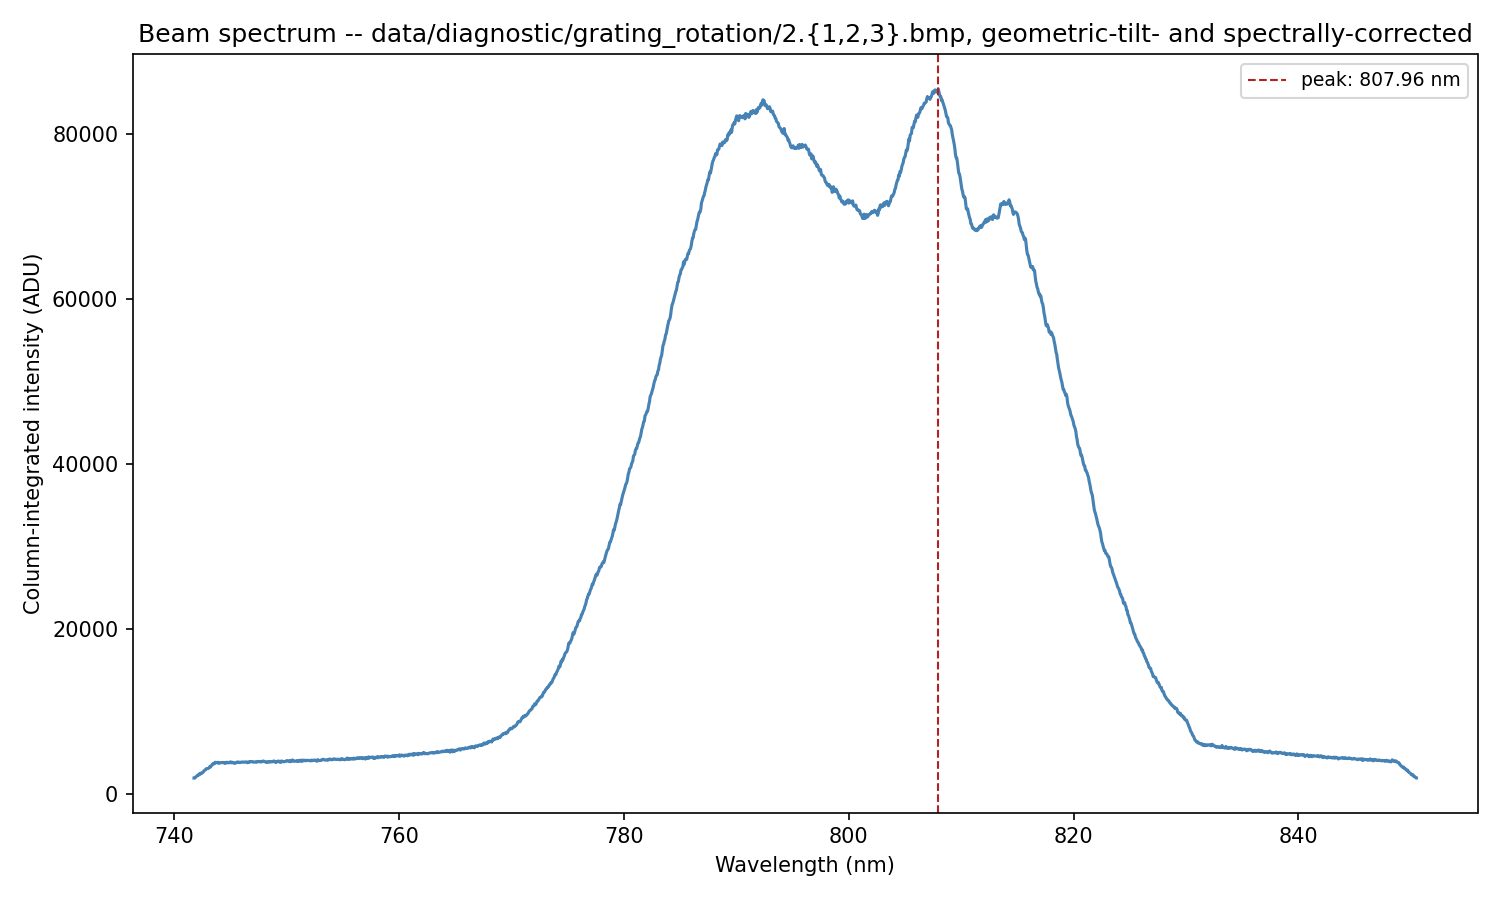
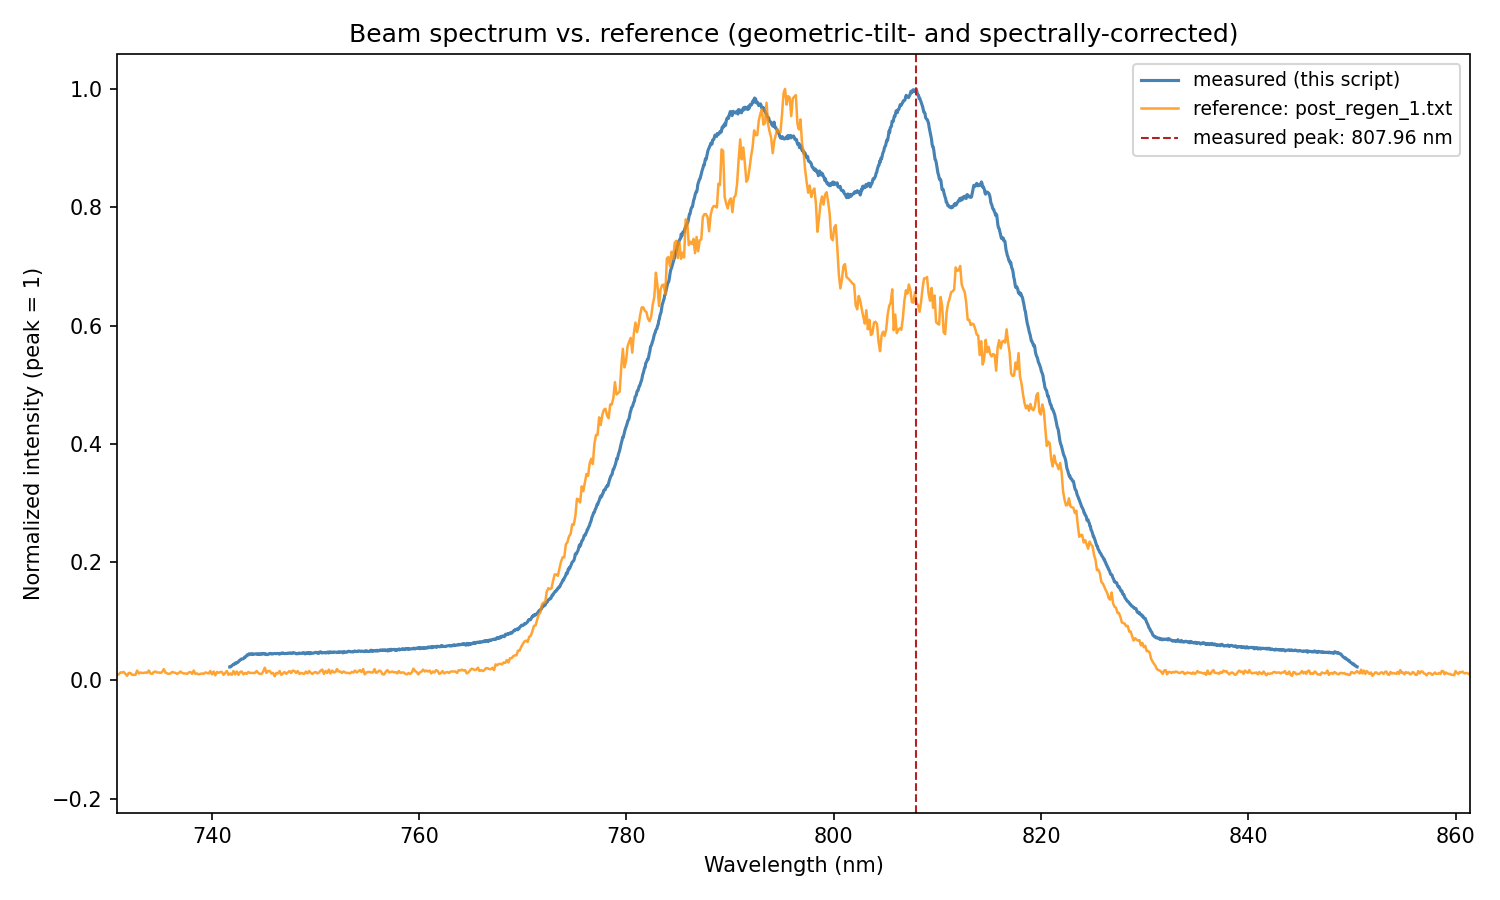
Overlay reference beam spectrum on plot_beam_spectrum.py's plot

diff --git a/scripts/plot_beam_spectrum.py b/scripts/plot_beam_spectrum.py
@@ -44,9 +44,21 @@ exposure_us/gain_db are NOT the frames' real captured settings -- these
 configured exposure_time is used as a placeholder and gain_db defaults to
 0.0, same convention as every other grating_rotation/ script.
 
+The plot also overlays an independently-measured "true" reference
+spectrum (default: data/reference/beam_spectra/post_regen_1.txt, a raw
+export from a separate, standalone spectrometer -- not this imaging
+spectrometer -- covering the beam's full range post-regen). That file's
+intensity is in that instrument's own raw counts, on a completely
+different scale from this script's column-summed ADU (different
+instrument, different aperture/collection efficiency, not photometrically
+comparable), so both spectra are plotted peak-normalized (each divided by
+its own maximum) rather than in their native units -- this plot compares
+spectral *shape*, not absolute intensity.
+
 Usage:
     python scripts/plot_beam_spectrum.py
     python scripts/plot_beam_spectrum.py --degree 2 --output out.png
+    python scripts/plot_beam_spectrum.py --reference-spectrum data/reference/beam_spectra/oscillator_1.txt
 '''
 
 # Imports
@@ -76,9 +88,15 @@ DEFAULT_BEAM_SHOT_PATHS = tuple(
     Path("data/diagnostic/grating_rotation") / name
     for name in ("2.1.bmp", "2.2.bmp", "2.3.bmp")
 )
+DEFAULT_REFERENCE_SPECTRUM_PATH = Path("data/reference/beam_spectra/post_regen_1.txt")
 DEFAULT_OUTPUT_PATH = Path("data/diagnostic/grating_rotation_beam_spectrum.png")
 DEFAULT_GAIN_DB = 0.0
 DEFAULT_SPECTRAL_DEGREE = 3
+
+# Marks the end of the metadata header in the reference spectrometer's raw
+# export format (see load_reference_spectrum()) -- spectral data starts
+# on the line after this one.
+REFERENCE_SPECTRUM_DATA_MARKER = ">>>>>Begin Spectral Data<<<<<"
 
 # Classes
 
@@ -107,6 +125,30 @@ def stack_frames(frames: list[FrameData]) -> np.ndarray:
     return np.mean([f.image.astype(np.float64) for f in frames], axis=0)
 
 
+def load_reference_spectrum(path: Path) -> tuple[np.ndarray, np.ndarray]:
+
+    '''
+    Parses a raw spectrometer export: a metadata header terminated by
+    REFERENCE_SPECTRUM_DATA_MARKER, followed by tab-separated
+    (wavelength_nm, intensity) rows -- see module docstring for what
+    instrument/scale this intensity is in.
+
+    Raises
+    ------
+    ValueError
+        If path contains no REFERENCE_SPECTRUM_DATA_MARKER line.
+    '''
+
+    lines = path.read_text().splitlines()
+    try:
+        data_start = lines.index(REFERENCE_SPECTRUM_DATA_MARKER) + 1
+    except ValueError:
+        raise ValueError(f"{path} has no '{REFERENCE_SPECTRUM_DATA_MARKER}' marker")
+
+    data = np.array([line.split() for line in lines[data_start:] if line.strip()], dtype=np.float64)
+    return data[:, 0], data[:, 1]
+
+
 def print_tilt_report(tilt) -> None:
 
     '''Prints the fitted geometric tilt curve and residual terms, same format as
@@ -133,22 +175,41 @@ def print_spectral_report(spectral) -> None:
     print(f"  {fit.residuals.shape[0]} matched lines")
 
 
-def plot_beam_spectrum(wavelength_nm: np.ndarray, spectrum: np.ndarray, output_path: Path) -> None:
+def plot_beam_spectrum(
+    wavelength_nm: np.ndarray, spectrum: np.ndarray,
+    reference_wavelength_nm: np.ndarray, reference_spectrum: np.ndarray, reference_label: str,
+    output_path: Path,
+) -> None:
 
-    '''Plots the stacked, tilt- and spectrally-corrected beam spectrum against wavelength_nm.'''
+    '''
+    Plots the stacked, tilt- and spectrally-corrected beam spectrum against
+    wavelength_nm, overlaid with an independently-measured reference
+    spectrum. Both are peak-normalized before plotting -- see module
+    docstring for why they can't be compared in native units.
+    '''
 
     peak_nm = float(wavelength_nm[np.argmax(spectrum)])
+    normalized_spectrum = spectrum / spectrum.max()
+    normalized_reference = reference_spectrum / reference_spectrum.max()
 
     fig, ax = plt.subplots(figsize=(10, 6))
-    ax.plot(wavelength_nm, spectrum, linewidth=1.5, color="steelblue")
-    ax.axvline(peak_nm, color="firebrick", linestyle="--", linewidth=1, label=f"peak: {peak_nm:.2f} nm")
+    ax.plot(wavelength_nm, normalized_spectrum, linewidth=1.5, color="steelblue", label="measured (this script)")
+    ax.plot(
+        reference_wavelength_nm, normalized_reference, linewidth=1.2, color="darkorange", alpha=0.8,
+        label=f"reference: {reference_label}",
+    )
+    ax.axvline(peak_nm, color="firebrick", linestyle="--", linewidth=1, label=f"measured peak: {peak_nm:.2f} nm")
+
+    # The reference instrument's wavelength range is much wider than the
+    # imaging spectrometer's -- zoom to where the measured spectrum
+    # actually has signal, rather than stretching the axis to fit the
+    # reference's mostly-flat noise floor either side of it.
+    margin_nm = 0.1 * (wavelength_nm.max() - wavelength_nm.min())
+    ax.set_xlim(wavelength_nm.min() - margin_nm, wavelength_nm.max() + margin_nm)
 
     ax.set_xlabel("Wavelength (nm)")
-    ax.set_ylabel("Column-integrated intensity (ADU)")
-    ax.set_title(
-        "Beam spectrum -- data/diagnostic/grating_rotation/2.{1,2,3}.bmp, "
-        "geometric-tilt- and spectrally-corrected"
-    )
+    ax.set_ylabel("Normalized intensity (peak = 1)")
+    ax.set_title("Beam spectrum vs. reference (geometric-tilt- and spectrally-corrected)")
     ax.legend(fontsize=9)
 
     plt.tight_layout()
@@ -172,6 +233,11 @@ def main() -> None:
     parser.add_argument(
         "--degree", type=int, default=DEFAULT_SPECTRAL_DEGREE,
         help=f"Polynomial degree for the pixel -> wavelength_nm fit (default: {DEFAULT_SPECTRAL_DEGREE})",
+    )
+    parser.add_argument(
+        "--reference-spectrum", type=Path, default=DEFAULT_REFERENCE_SPECTRUM_PATH,
+        help="Independently-measured 'true' spectrum to overlay, in the raw spectrometer-export "
+             f"format (default: {DEFAULT_REFERENCE_SPECTRUM_PATH})",
     )
     parser.add_argument(
         "--output", type=Path, default=DEFAULT_OUTPUT_PATH, help="Where to save the beam spectrum plot",
@@ -231,7 +297,14 @@ def main() -> None:
     peak_nm = beam_wavelength_nm[np.argmax(beam_spectrum)]
     print(f"beam spectrum: peak at {peak_nm:.2f} nm, total intensity = {beam_spectrum.sum():.4g} ADU")
 
-    plot_beam_spectrum(beam_wavelength_nm, beam_spectrum, args.output)
+    reference_wavelength_nm, reference_spectrum = load_reference_spectrum(args.reference_spectrum)
+    reference_peak_nm = reference_wavelength_nm[np.argmax(reference_spectrum)]
+    print(f"reference spectrum ({args.reference_spectrum}): peak at {reference_peak_nm:.2f} nm")
+
+    plot_beam_spectrum(
+        beam_wavelength_nm, beam_spectrum, reference_wavelength_nm, reference_spectrum,
+        args.reference_spectrum.name, args.output,
+    )
 
 
 if __name__ == "__main__":
